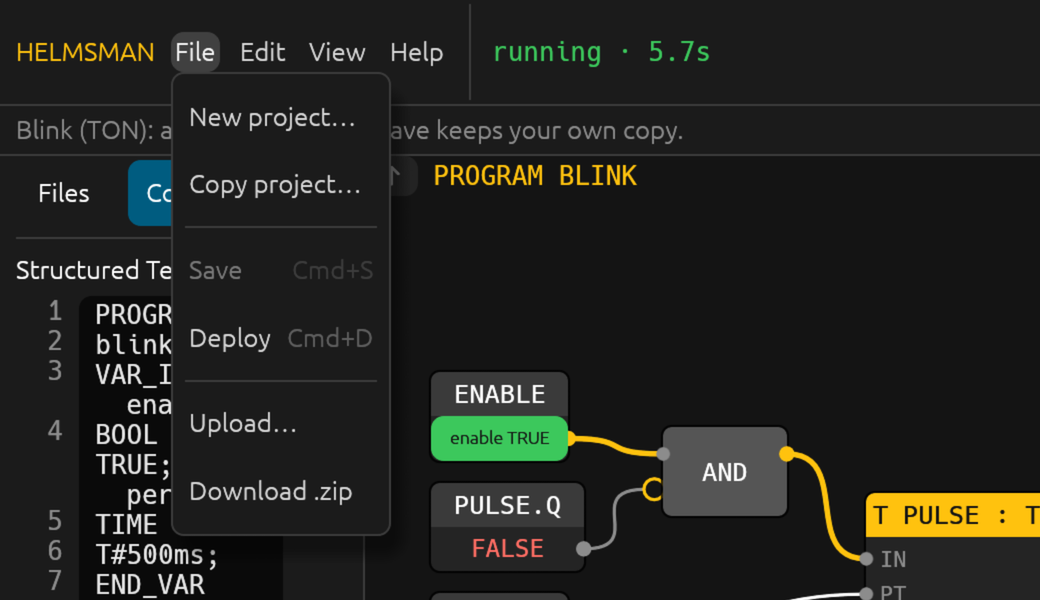
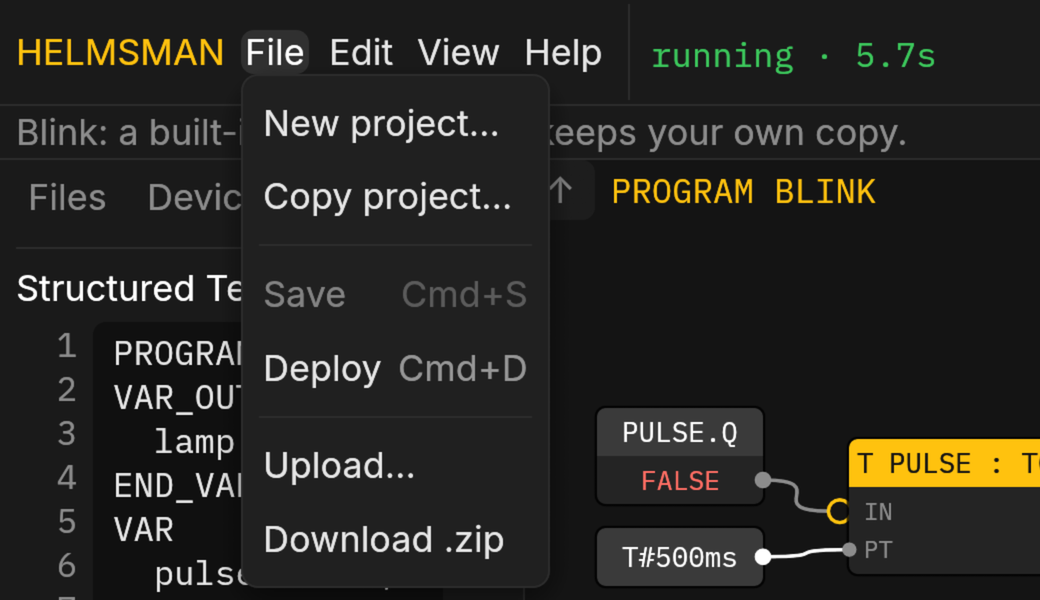
docs(help): re-take the pictures in the new theme
The shot script's clicks and clips follow the panels' new widths.

diff --git a/docs/help/agent.html b/docs/help/agent.html
@@ -77,7 +77,7 @@ browser only, and the tab says plainly where the key is kept. Running
 the playground from your own machine with a local proxy, or natively
 with the key in the environment, the tab says the key is preloaded so
 you are not left wondering.</p>
-<img src="img/agent-tab.png" alt="The Agent tab: the key, the model, the question and Ask." width="240">
+<img src="img/agent-tab.png" alt="The Agent tab: the key, the model, the question and Ask." width="300">
 
 <p>Ask for a program ("a conveyor with a photo eye that stops after
 three parts"), for a change to the open one ("add a two-second delay

diff --git a/docs/help/editor.html b/docs/help/editor.html
@@ -207,7 +207,7 @@ href="projects.html#requirement-tests">Requirement tests</a>); and
 </ul>
 <img src="img/files-pane.png" alt="The Files tab: the project's files, the examples and starters, and the program tree." width="360">
 
-<img src="img/io-tab.png" alt="The I/O tab: every input with its control, every output with its value." width="240">
+<img src="img/io-tab.png" alt="The I/O tab: every input with its control, every output with its value." width="300">
 
 <p>Each pane remembers whether it was open, per browser.</p>
 </main>

diff --git a/scripts/help-shots.py b/scripts/help-shots.py
@@ -44,14 +44,14 @@ def clip(x, y, w, h):
 SHOTS = {
     "editor": ("?playground", layout(), [("wait", 2500)], None),
     "editor-light": ("?playground", layout(light=1), [("wait", 2500)], None),
-    "file-menu": ("?playground", layout(), [("click", 97, 26), ("wait", 800)], clip(0, 0, 520, 300)),
-    "glyphs": ("?playground", layout(), [("move", 937, 108), ("wait", 1200)], clip(900, 80, 300, 70)),
-    "diagram-why": ("?playground", layout(), [("click", 747, 222), ("wait", 1500)], clip(185, 75, 1011, 340)),
+    "file-menu": ("?playground", layout(), [("click", 137, 26), ("wait", 800)], clip(0, 0, 520, 300)),
+    "glyphs": ("?playground", layout(), [("move", 838, 108), ("wait", 1200)], clip(800, 80, 300, 70)),
+    "diagram-why": ("?playground", layout(), [("click", 731, 242), ("wait", 1500)], clip(262, 75, 836, 340)),
     "files-pane": ("?playground", layout(pane="files"), [("wait", 1500)], clip(0, 75, 360, 470)),
-    "context-menu": ("?playground", layout(pane="files"), [("wait", 1500), ("rclick", 50, 379), ("wait", 800)], clip(0, 75, 360, 470)),
-    "io-tab": ("?playground", layout(tab="io"), [("wait", 1500)], clip(1196, 75, 204, 400)),
-    "agent-tab": ("?playground", layout(tab="claude"), [("wait", 1500)], clip(1196, 75, 204, 370)),
-    "trend": ("?playground", layout(bottom="trend"), [("wait", 8000)], clip(185, 660, 1011, 200)),
+    "context-menu": ("?playground", layout(pane="files"), [("wait", 1500), ("rclick", 55, 400), ("wait", 800)], clip(0, 75, 360, 470)),
+    "io-tab": ("?playground", layout(tab="io"), [("wait", 1500)], clip(1098, 75, 302, 400)),
+    "agent-tab": ("?playground", layout(tab="claude"), [("wait", 1500)], clip(1098, 75, 302, 370)),
+    "trend": ("?playground", layout(bottom="trend"), [("wait", 8000)], clip(262, 660, 836, 200)),
     "monitor": ("?playground&monitor", layout(), [("wait", 3000)], None),
     "monitor-stopped": ("?playground&monitor", layout(), [("wait", 2000), ("key", "Control+Enter"), ("wait", 1200)], clip(0, 52, 700, 260)),
 }

diff --git a/docs/help/agent.md b/docs/help/agent.md
@@ -14,7 +14,7 @@ playground from your own machine with a local proxy, or natively with
 the key in the environment, the tab says the key is preloaded so you are
 not left wondering.
 
-<img src="img/agent-tab.png" alt="The Agent tab: the key, the model, the question and Ask." width="240">
+<img src="img/agent-tab.png" alt="The Agent tab: the key, the model, the question and Ask." width="300">
 
 Ask for a program ("a conveyor with a photo eye that stops after three
 parts"), for a change to the open one ("add a two-second delay before the

diff --git a/docs/help/editor.md b/docs/help/editor.md
@@ -142,6 +142,6 @@ label is drawn, the icon stands alone at a readable size.
 
 <img src="img/files-pane.png" alt="The Files tab: the project's files, the examples and starters, and the program tree." width="360">
 
-<img src="img/io-tab.png" alt="The I/O tab: every input with its control, every output with its value." width="240">
+<img src="img/io-tab.png" alt="The I/O tab: every input with its control, every output with its value." width="300">
 
 Each pane remembers whether it was open, per browser.
